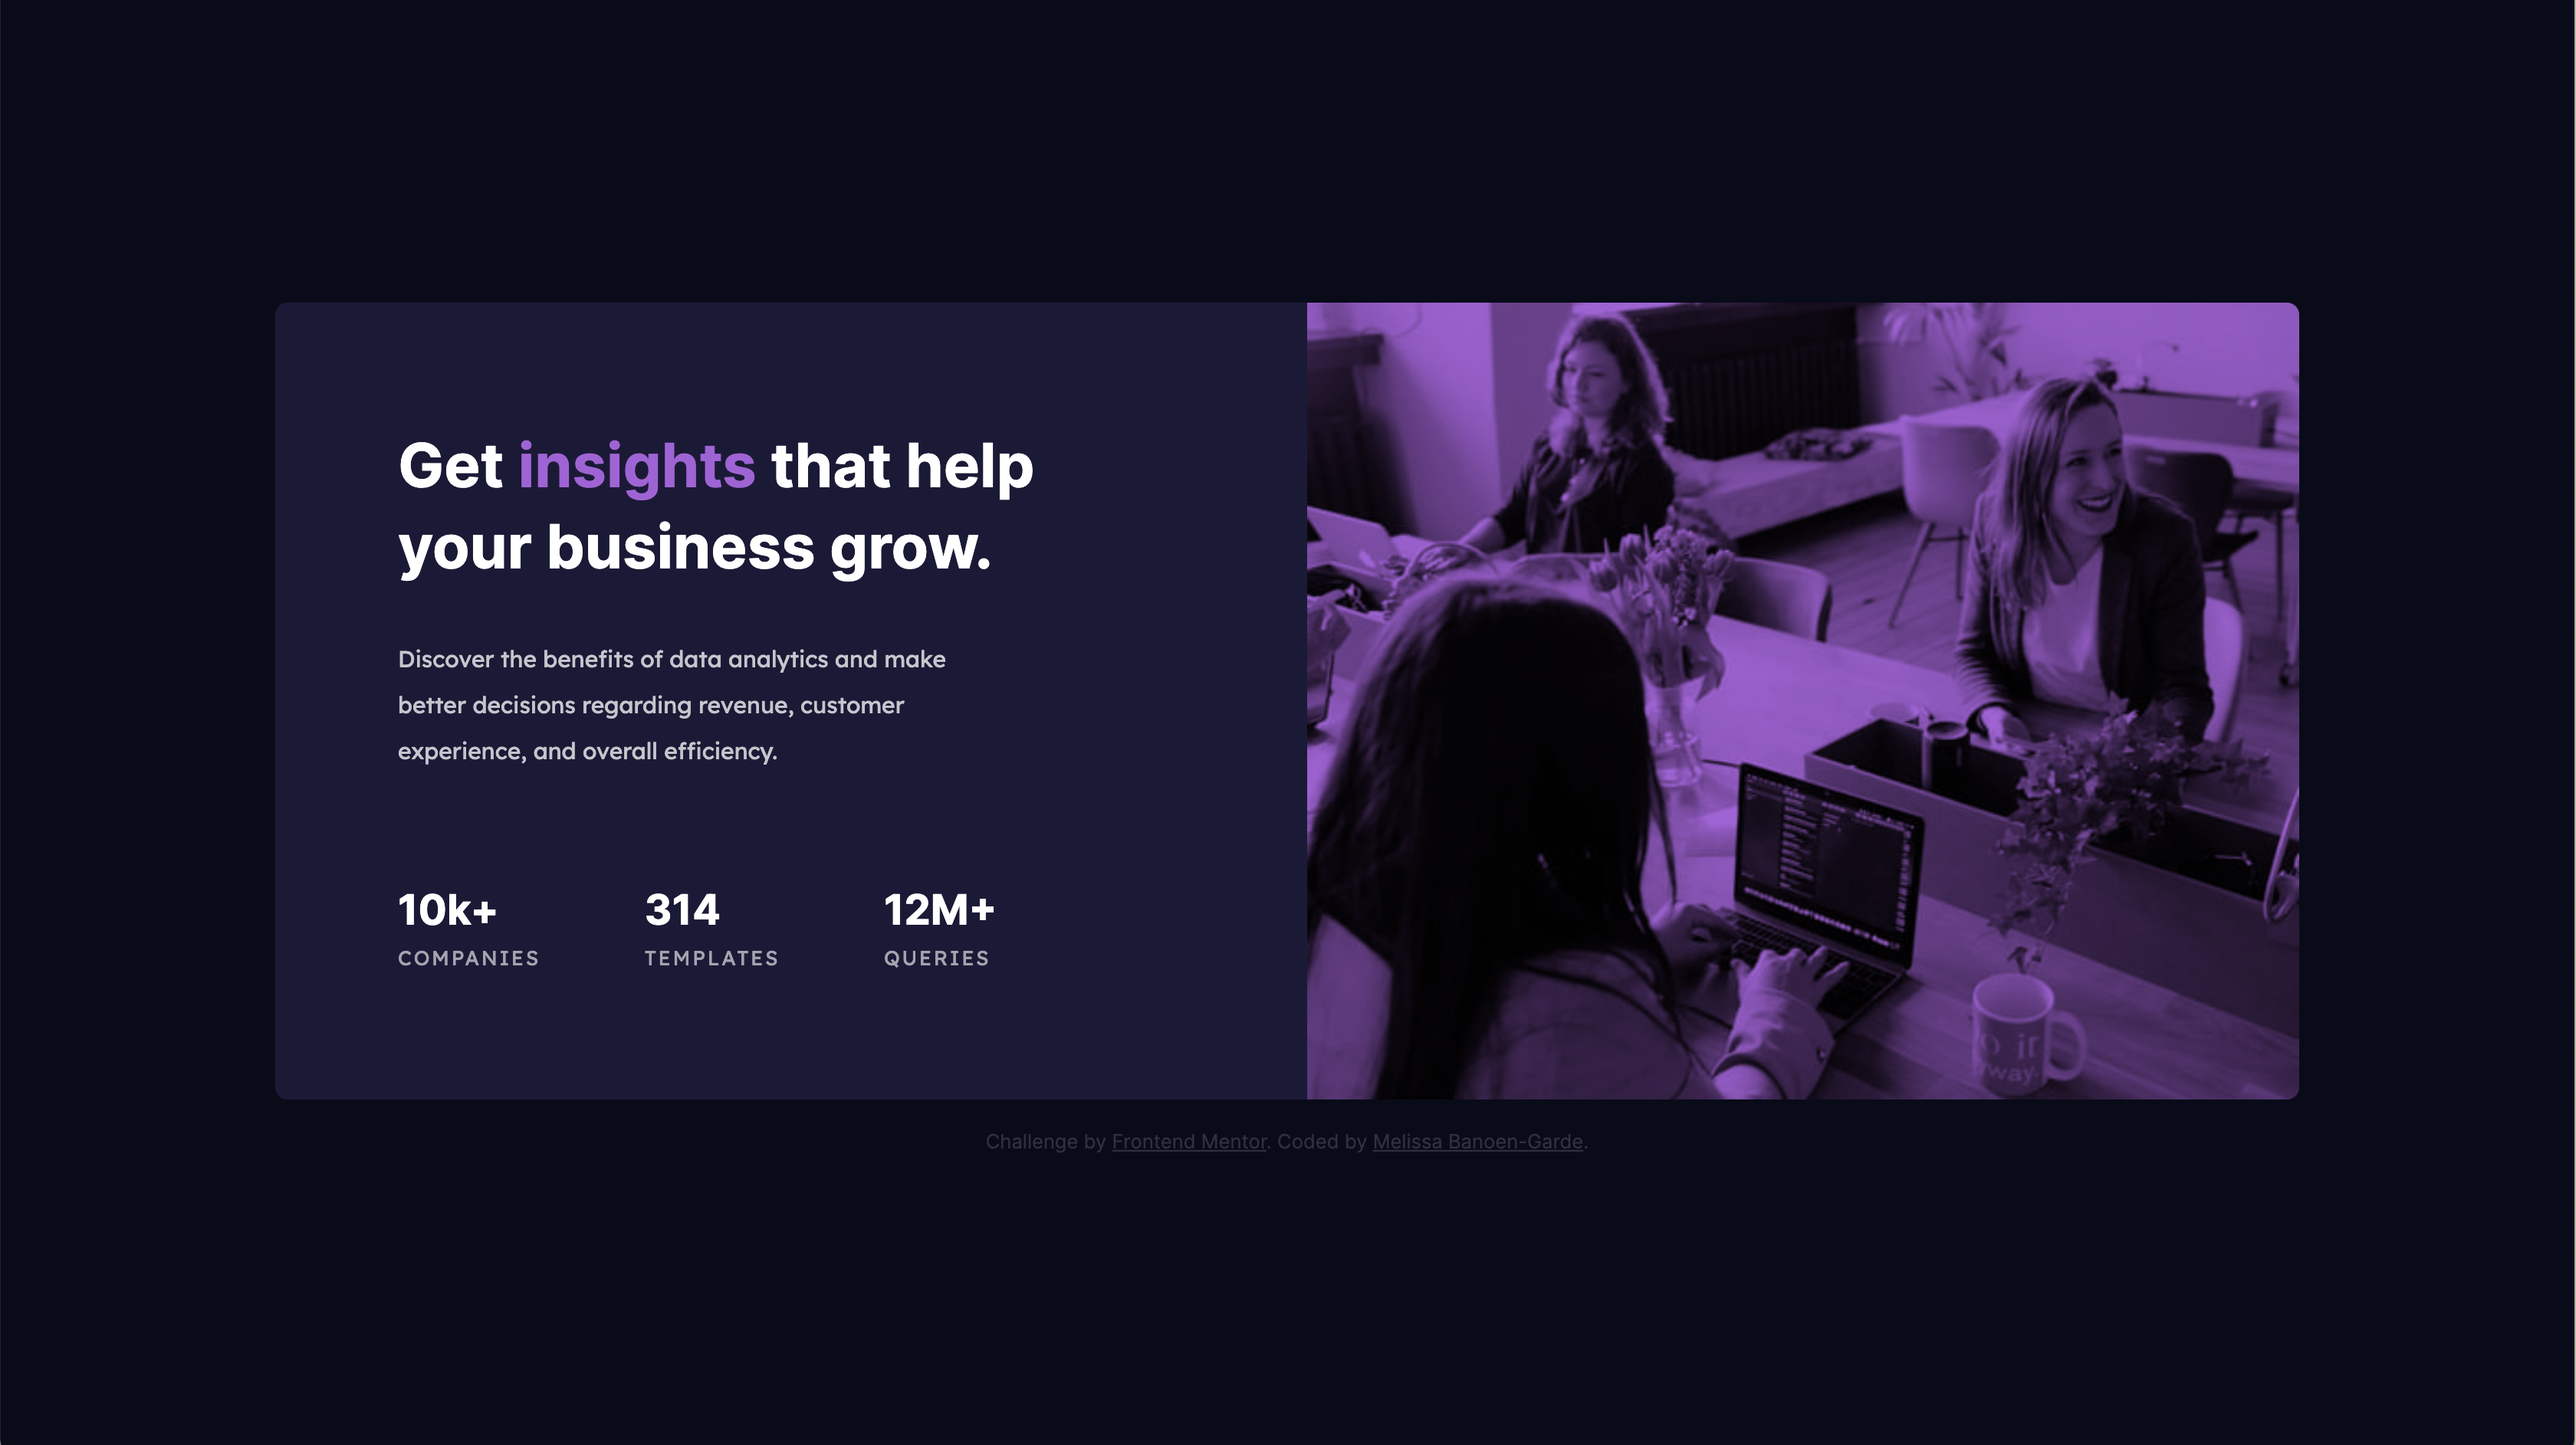
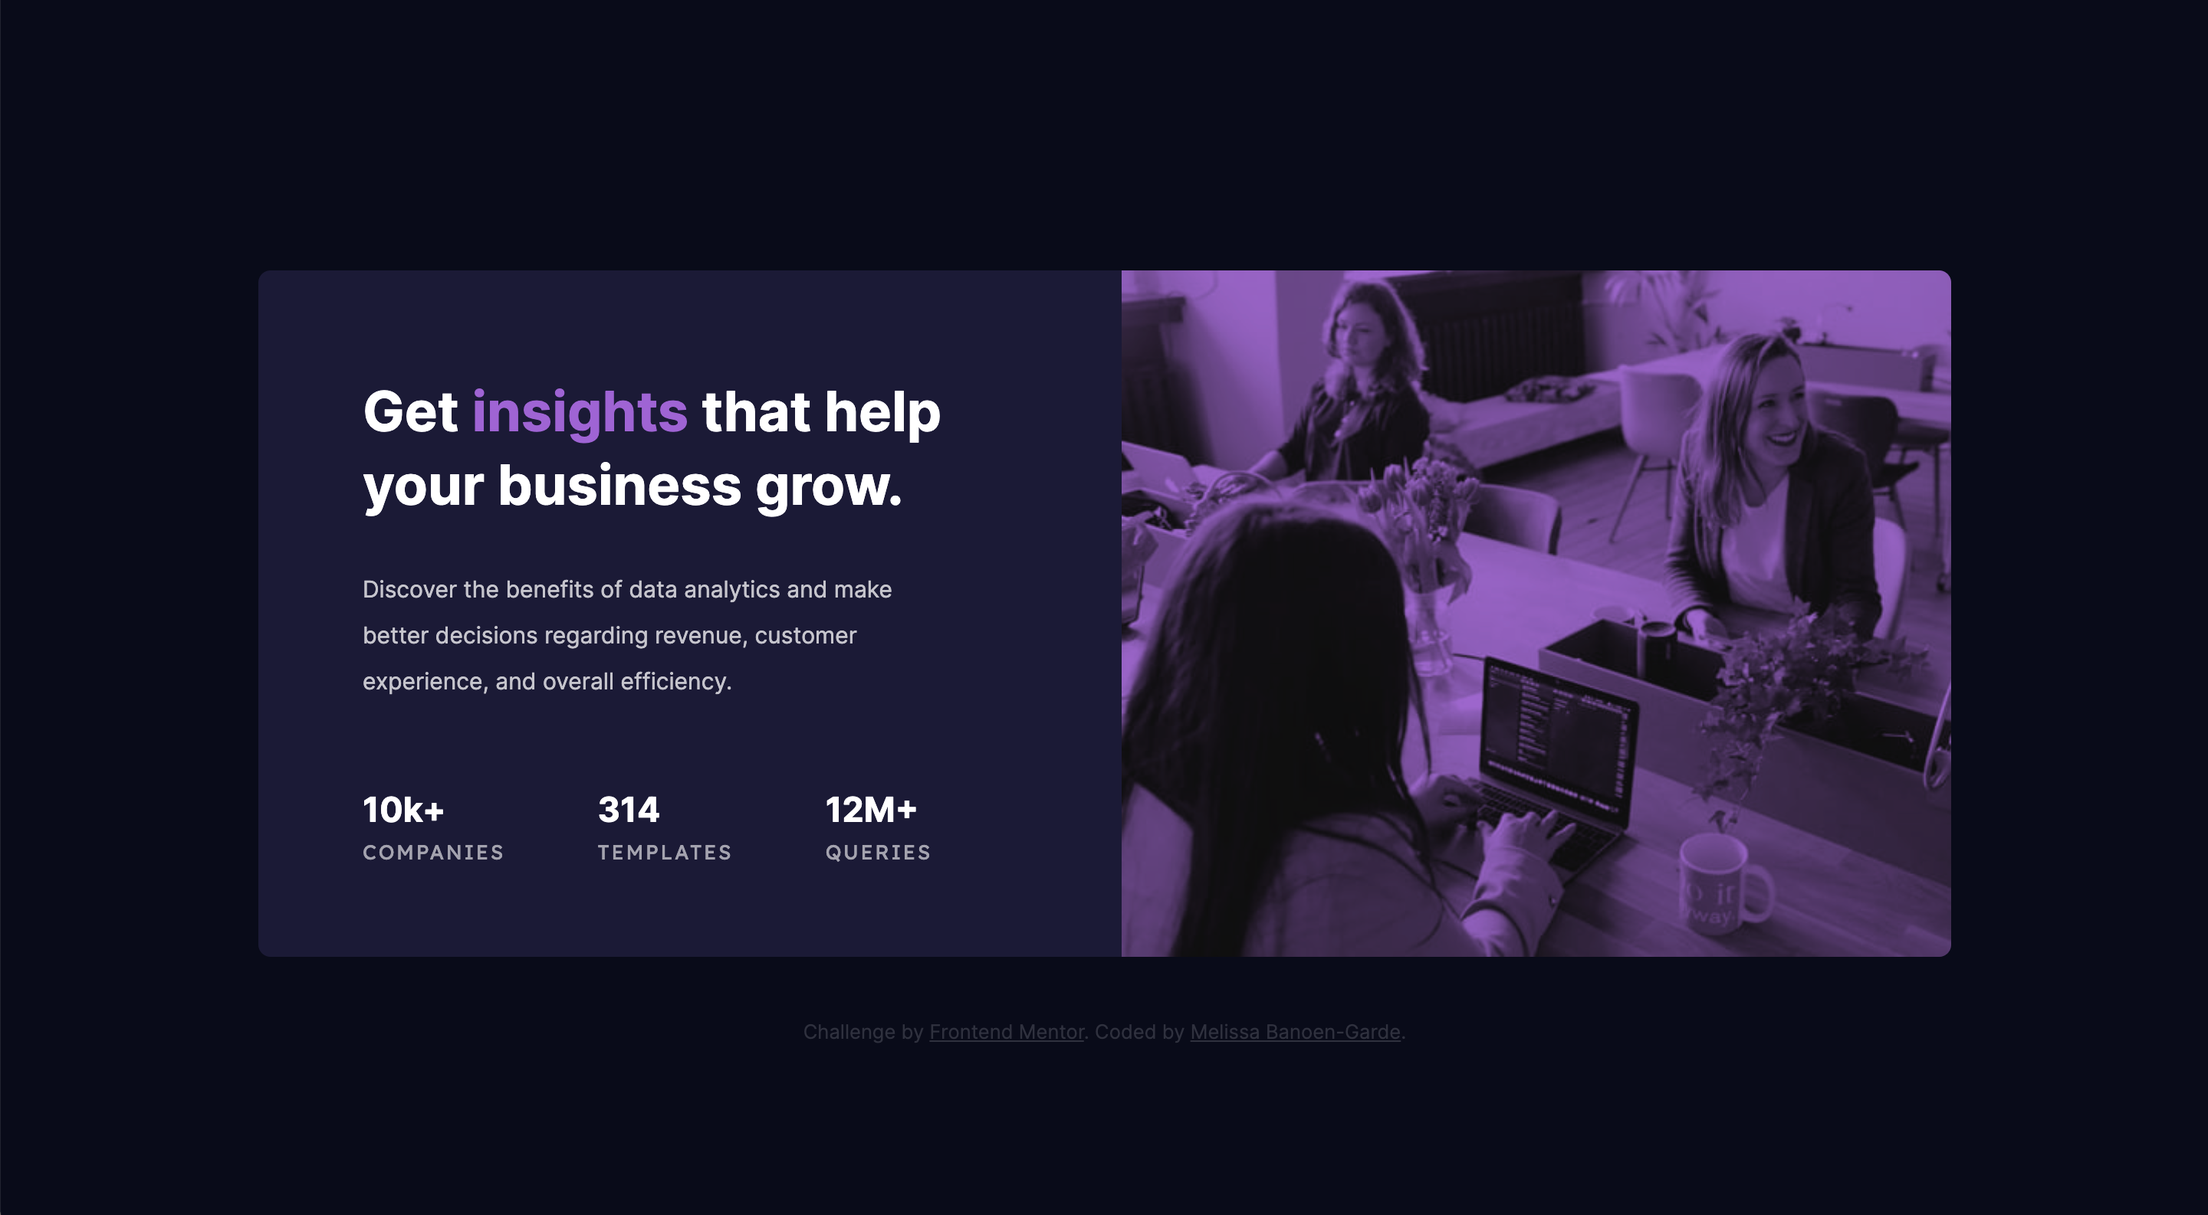
update readme markdown

diff --git a/Newbie/stats-preview-card-component-main/README.md b/Newbie/stats-preview-card-component-main/README.md
@@ -26,7 +26,7 @@ Users should be able to:
 ### Screenshot
 
   <div align="center">
-  <img src="images/dtop2.png" width="49.2%"/> <img src="design/desktop-design.jpg" width="49%" />
+  <img src="images/sc-desktop.png" width="49.2%"/> <img src="design/desktop-design.jpg" width="49%" />
   <small>Desktop result — Design image</small> <br>
  <br>
   <img src="images/sc-mobile.png" width="22.1%"/> <img src="design/mobile-design.jpg" width="23%" />
